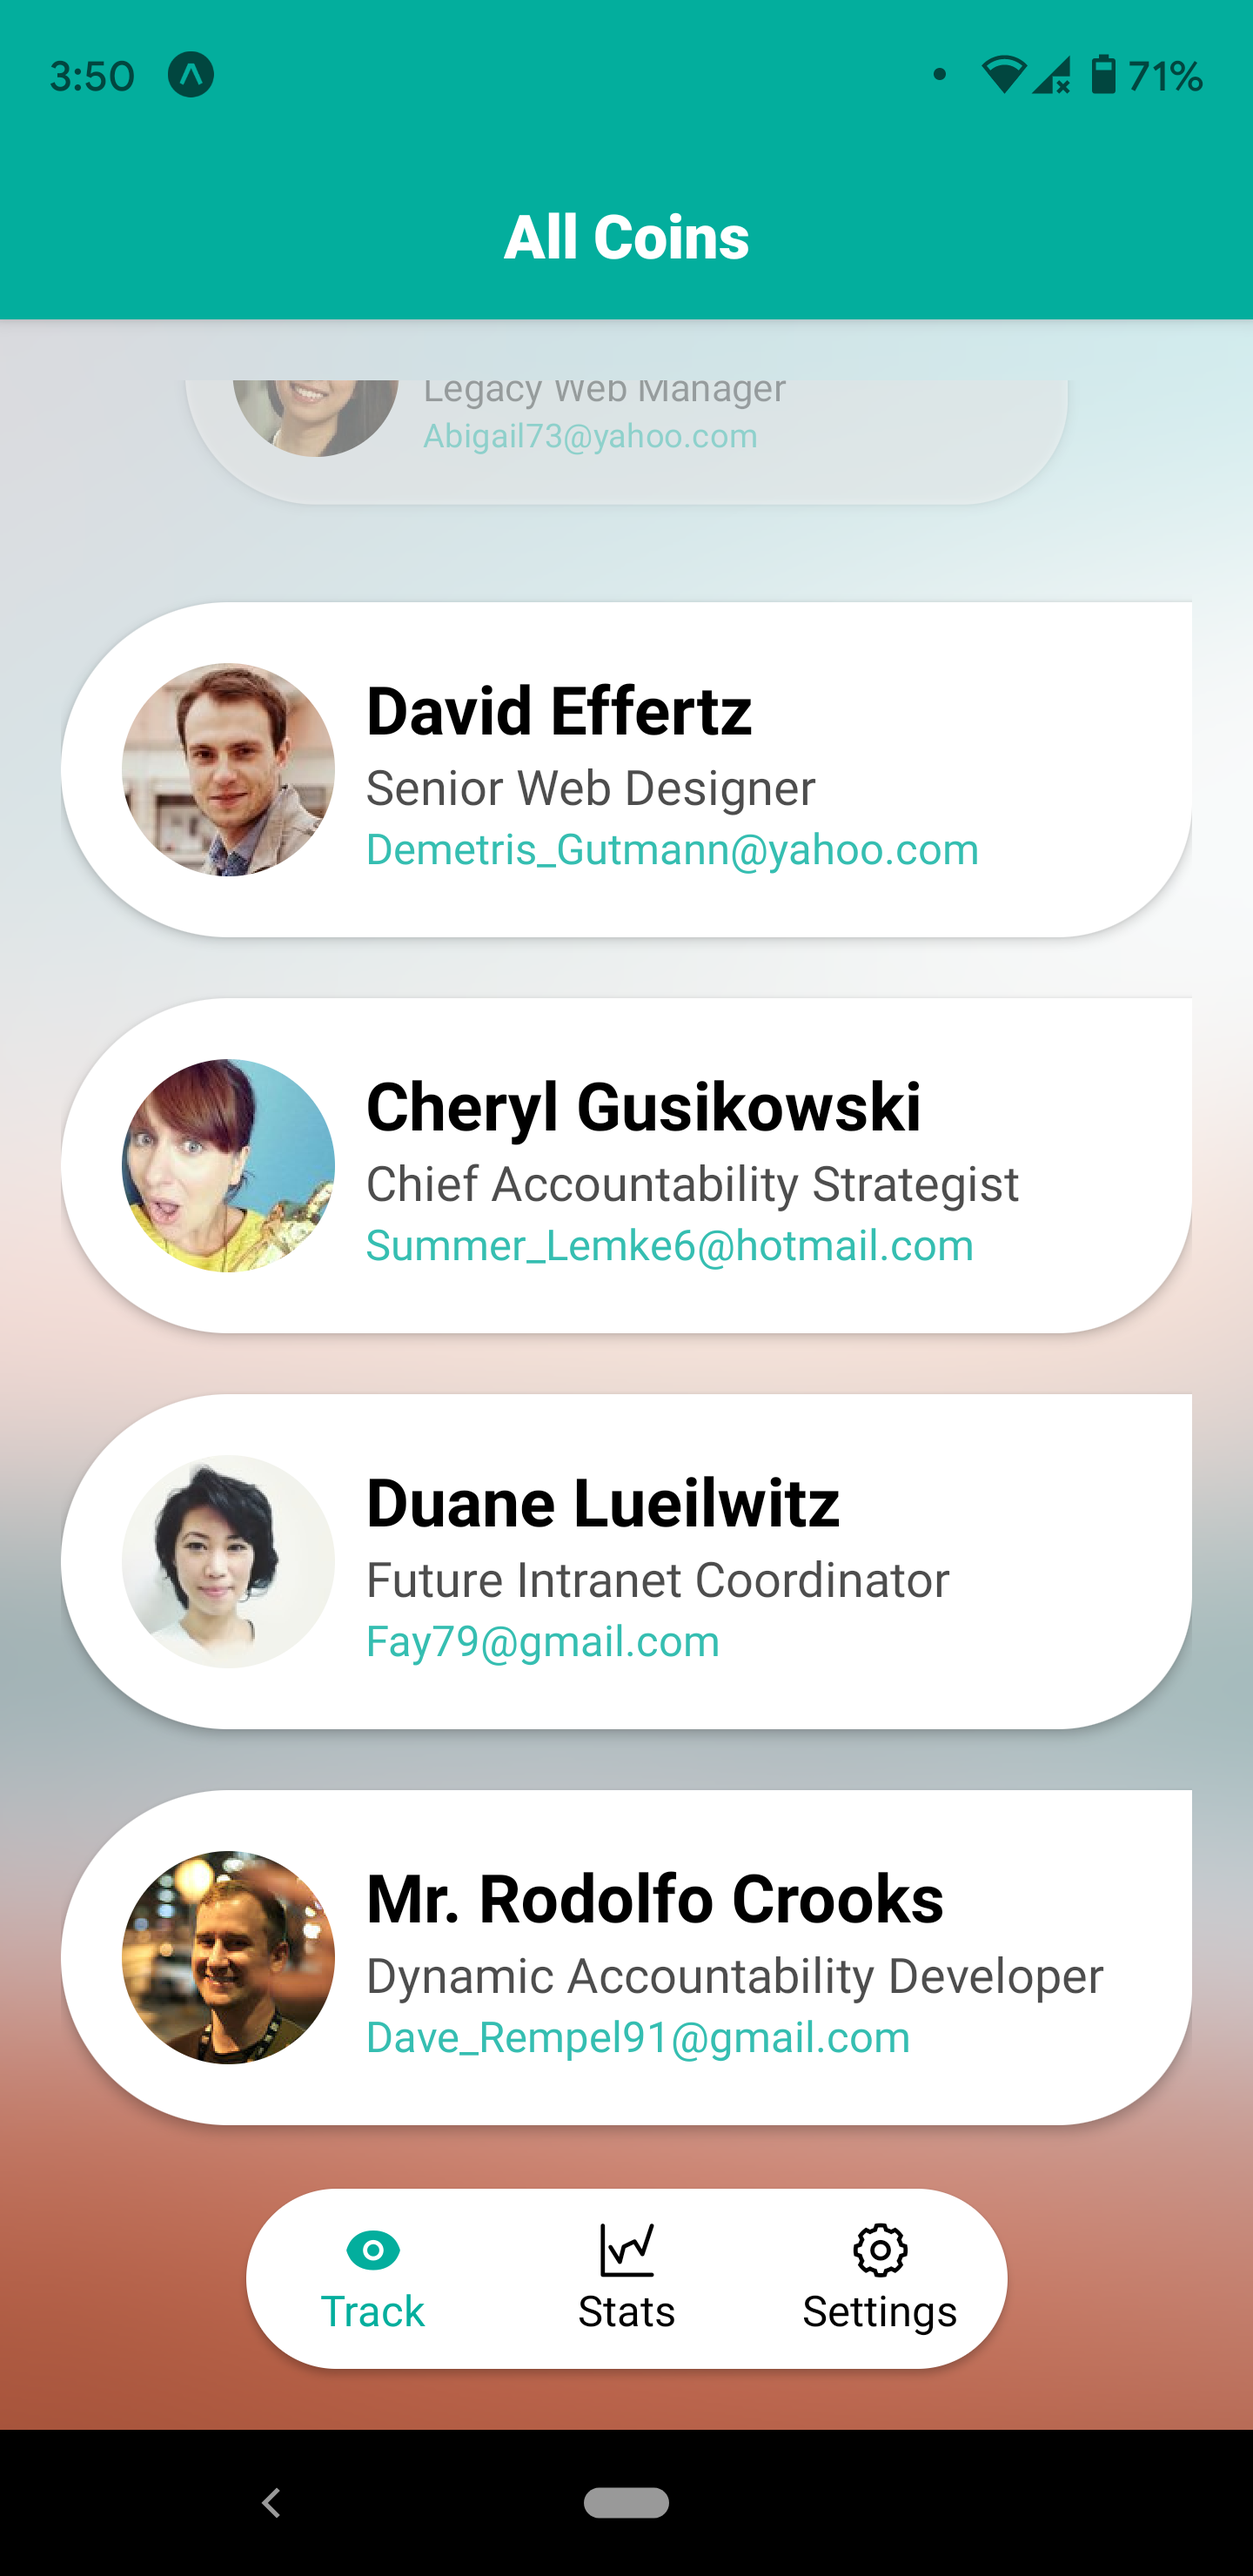
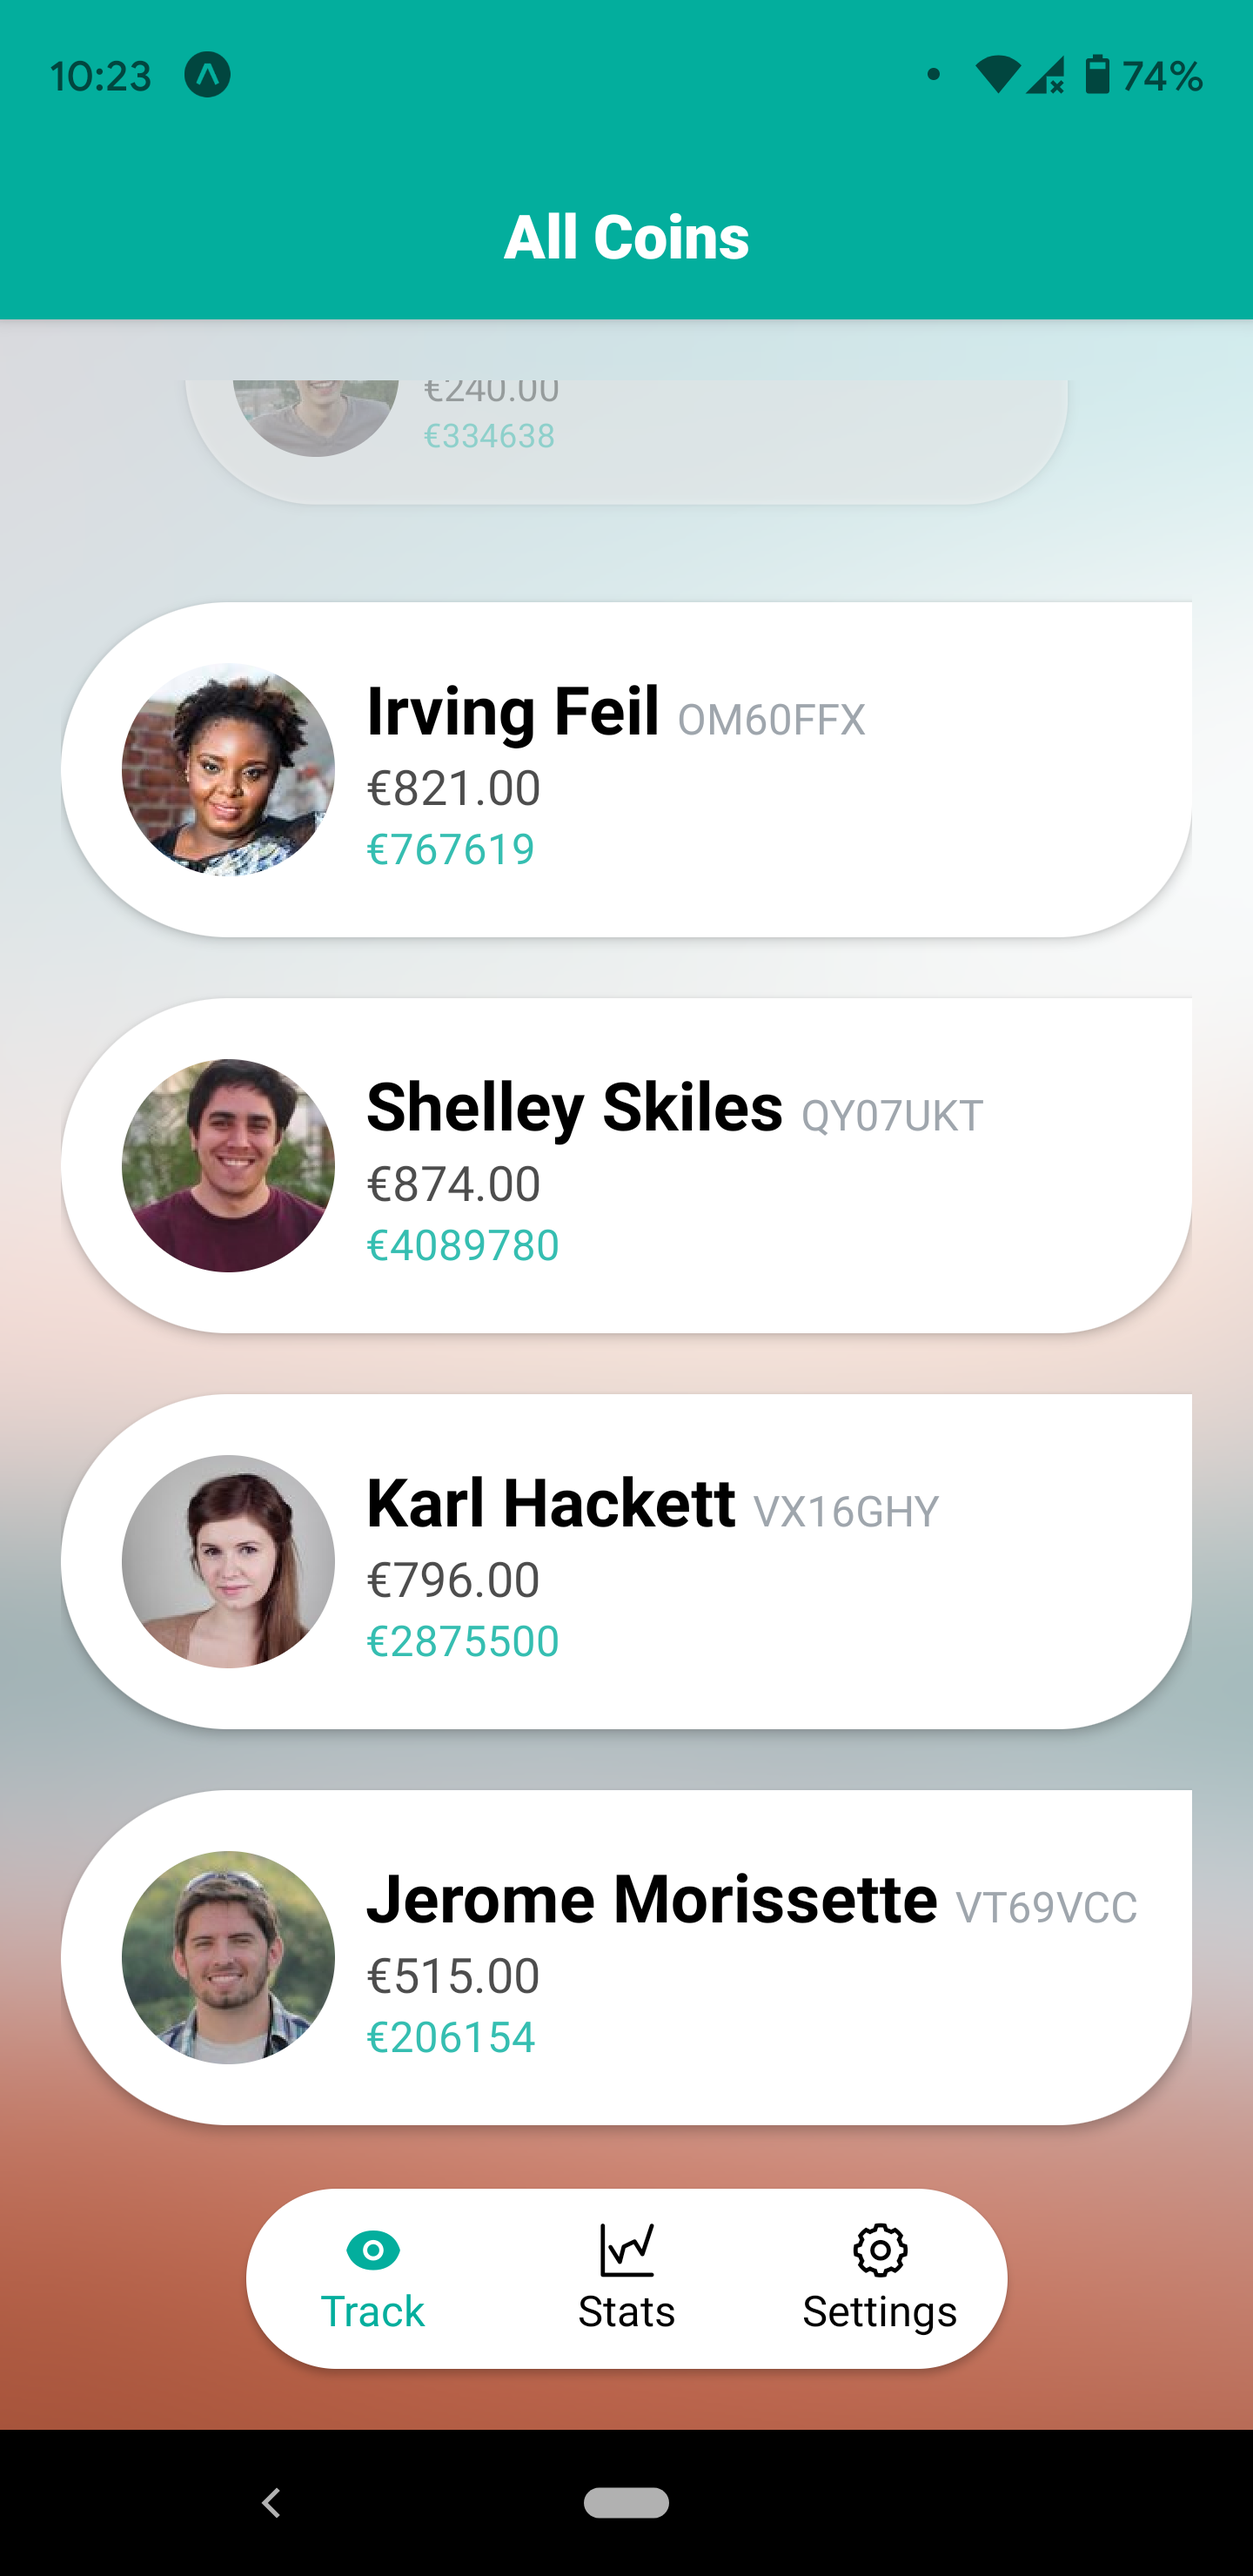
Update fake data

diff --git a/app/components/CoinList.js b/app/components/CoinList.js
@@ -20,8 +20,12 @@ const DATA = [...Array(30).keys()].map((_, i) => {
       'men',
     ])}/${faker.datatype.number(60)}.jpg`,
     name: faker.name.findName(),
+    symbol: faker.vehicle.vrm(),
     jobTitle: faker.name.jobTitle(),
     email: faker.internet.email(),
+    commerce: faker.commerce.price(),
+    volume:
+      faker.datatype.number({ min: 3, max: 100 }) * faker.datatype.number(),
   };
 });
 
@@ -64,9 +68,11 @@ const CoinList = () => {
       >
         <Image style={styles.itemImage} source={{ uri: item.image }} />
         <View>
-          <Text style={styles.itemName}>{item.name}</Text>
-          <Text style={styles.itemTitle}>{item.jobTitle}</Text>
-          <Text style={styles.itemEmail}>{item.email}</Text>
+          <Text style={styles.baseText}>
+            {item.name} <Text style={styles.innerText}>{item.symbol}</Text>
+          </Text>
+          <Text style={styles.itemPrice}>&euro;{item.commerce}</Text>
+          <Text style={styles.itemVolume}>&euro;{item.volume}</Text>
         </View>
       </AnimatedPressable>
     );
@@ -111,17 +117,22 @@ const styles = StyleSheet.create({
     borderRadius: AVATAR_SIZE,
     marginRight: SPACING / 2,
   },
-  itemName: {
-    fontSize: 22,
-    fontWeight: '700',
-  },
-  itemTitle: {
+  itemPrice: {
     fontSize: 16,
     opacity: 0.7,
   },
-  itemEmail: {
+  itemVolume: {
     fontSize: 14,
     opacity: 0.8,
     color: '#03AE9D',
+  },
+  baseText: {
+    fontSize: 22,
+    fontWeight: '700',
+  },
+  innerText: {
+    fontSize: 14,
+    color: '#9fa6ad',
+    fontWeight: 'normal',
   },
 });
